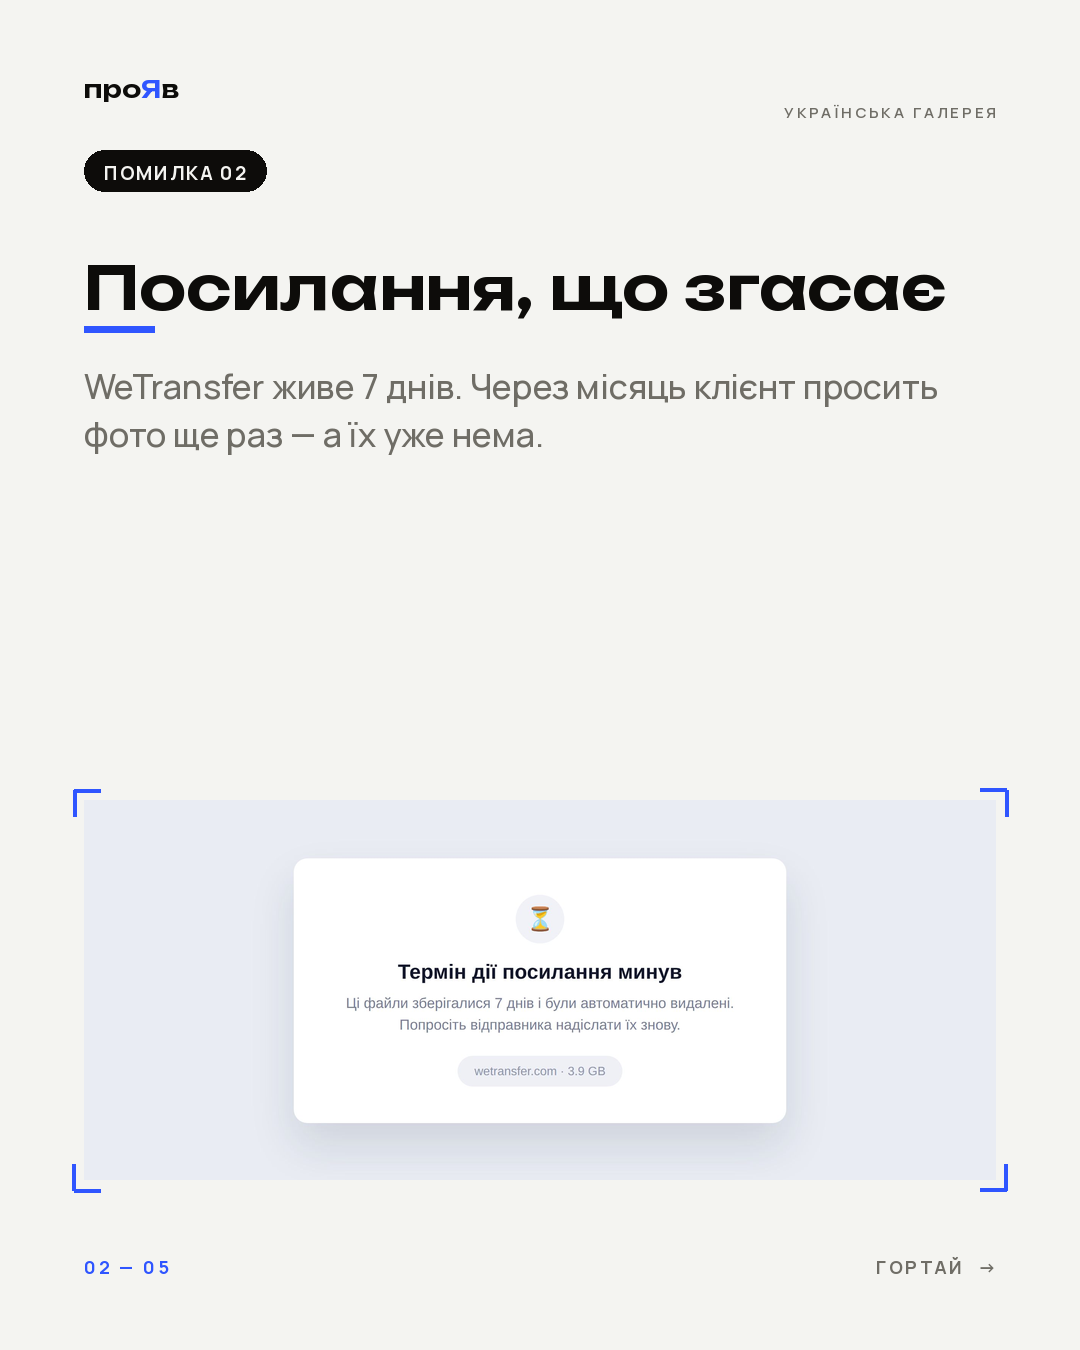
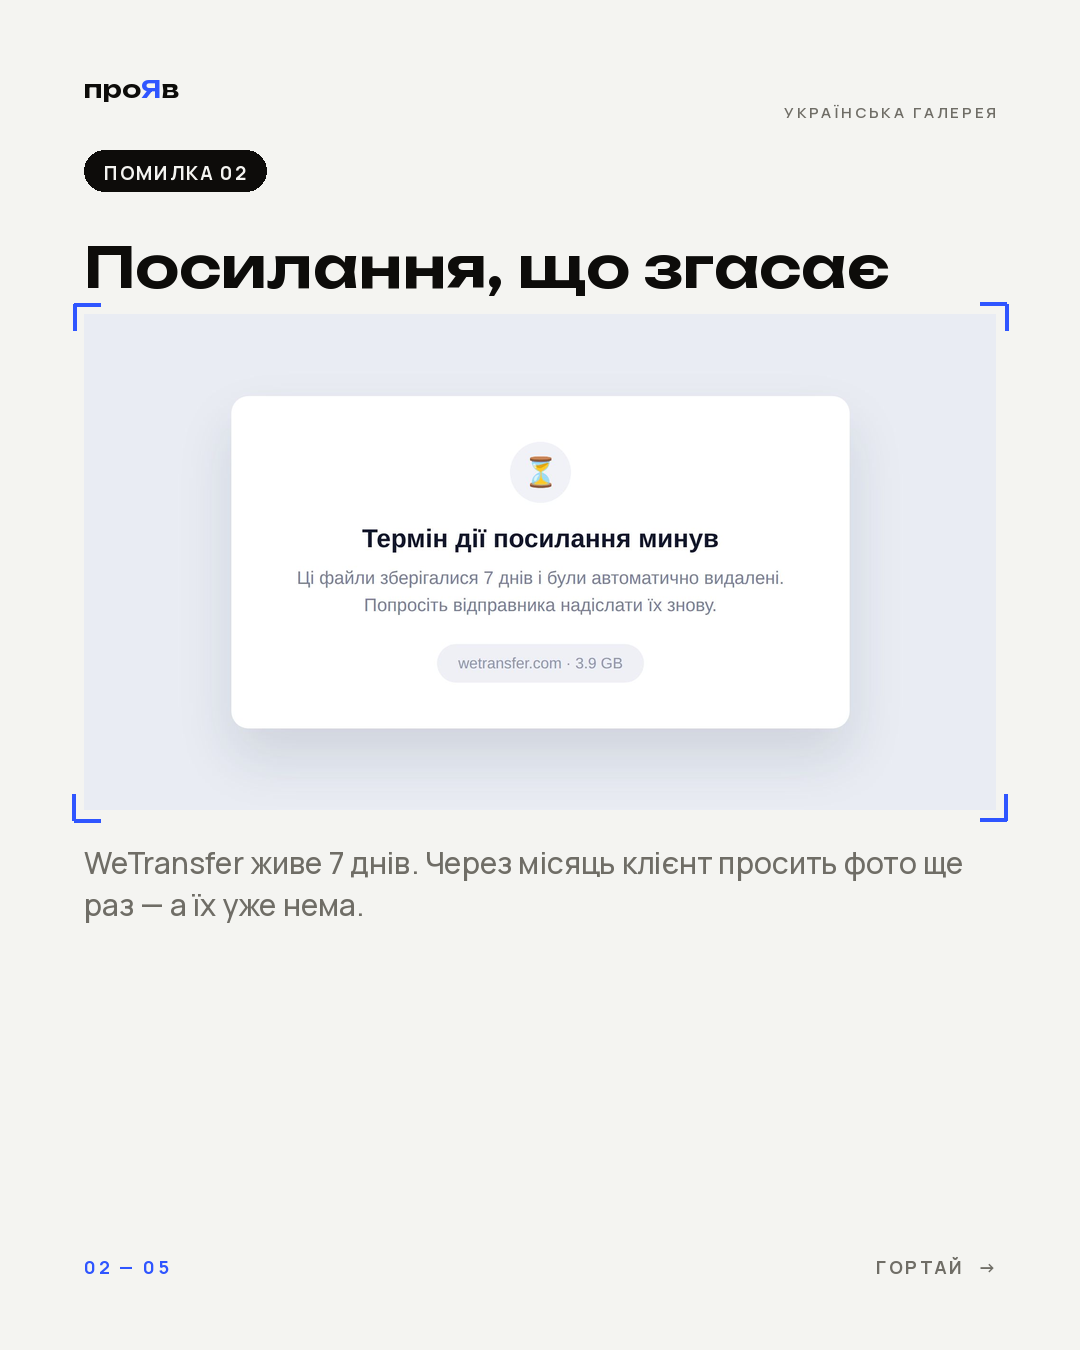
feat: template library for varied slide layouts
Adds a template system (render.TEMPLATES): photo, paper, quote, uicard, bigword.
Slides can be dicts with a "tpl" field so each carousel composes different
layouts (statement / full-bleed / centred UI card / paper band / big quote),
instead of every slide looking the same. build.py resolves dict-slide photos.

Claude-Session: https://claude.ai/code/session_015wyBXFLFDaqriyMyWQgP9j

diff --git a/render.py b/render.py
@@ -335,6 +335,85 @@ def cta(car, out_path, photo=None):
     img.save(out_path, "PNG"); return out_path
 
 
+# --- extra templates (library for varied layouts) --------------------------
+def slide_quote(idx, total, head, text, out_path, kick, photo=None, seed=1, mono=False):
+    """Coal slide, oversized quote in «» — a scroll-stopping statement."""
+    img = Image.new("RGB", (W, H), COAL); d = ImageDraw.Draw(img)
+    maxw = W - MARGIN * 2
+    _pill(d, MARGIN, 150, f"{kick} {idx:02d}" if kick else f"{idx:02d} / {total:02d}",
+          body(19, 700), ACC, WHITE)
+    f, lines = _fit_tokens(d, _tokens("«" + head + "»"), maxw, start=98, min_size=50, max_lines=4)
+    lh = int(f.size * 1.05)
+    y = (H - len(lines) * lh) // 2 - 40
+    y = _draw_tokens(d, MARGIN, y, lines, f, WHITE, ACC_D, lh)
+    if text:
+        y += 26
+        for l in wrap(d, text, body(30, 500), maxw - 140):
+            d.text((MARGIN, y), l, font=body(30, 500), fill=MUT_D); y += 42
+    _meta(d, "", f"{idx:02d} — {total:02d}", C.SWIPE_CUE, dark=True)
+    os.makedirs(os.path.dirname(out_path), exist_ok=True)
+    img.save(out_path, "PNG"); return out_path
+
+
+def slide_uicard(idx, total, head, text, out_path, kick, photo=None, seed=1, mono=False):
+    """Paper slide with a headline, a centred framed image (screenshot/graphic),
+    and a caption — perfect for UI shots that must match the text."""
+    img = Image.new("RGB", (W, H), PAPER); d = ImageDraw.Draw(img)
+    maxw = W - MARGIN * 2
+    _pill(d, MARGIN, 150, f"{kick} {idx:02d}" if kick else f"{idx:02d} / {total:02d}",
+          body(19, 700), INK, PAPER)
+    hf, hlines = _fit_tokens(d, _tokens(head), maxw, start=56, min_size=38, max_lines=2)
+    y = 232; hlh = int(hf.size * 1.08)
+    y = _draw_tokens(d, MARGIN, y, hlines, hf, INK, ACC, hlh)
+    y += 22
+    pw, ph = maxw, 496
+    img.paste(_photo(photo, pw, ph, seed, mono), (MARGIN, y))
+    _frame(d, (MARGIN - 10, y - 10, MARGIN + pw + 10, y + ph + 10))
+    y2 = y + ph + 32
+    if text:
+        for l in wrap(d, text, body(30, 500), maxw):
+            d.text((MARGIN, y2), l, font=body(30, 500), fill=MUT_L); y2 += 42
+    _meta(d, "", f"{idx:02d} — {total:02d}", C.SWIPE_CUE, dark=False)
+    os.makedirs(os.path.dirname(out_path), exist_ok=True)
+    img.save(out_path, "PNG"); return out_path
+
+
+def slide_bigword(idx, total, head, text, out_path, kick, photo=None, seed=1, mono=False):
+    """One giant word bleeding off the edge + a small caption (volume-one move)."""
+    dark = (seed % 2 == 0)
+    img = Image.new("RGB", (W, H), COAL if dark else PAPER); d = ImageDraw.Draw(img)
+    ink = WHITE if dark else INK
+    maxw = W - MARGIN * 2
+    word = (head.split()[0] if head else "").upper()
+    f0 = disp(100, 700); w0 = d.textlength(word, font=f0) or 1
+    size = min(430, max(150, int(100 * (1.16 * W) / w0)))
+    d.text((MARGIN - int(size * 0.04), int(H * 0.33)), word, font=disp(size, 700), fill=ink)
+    _pill(d, MARGIN, 150, f"{kick} {idx:02d}" if kick else f"{idx:02d} / {total:02d}",
+          body(19, 700), ACC if dark else INK, WHITE if dark else PAPER)
+    y = H - 250 - 0
+    cap = text or head
+    for l in wrap(d, cap, body(33, 500), maxw - 40):
+        d.text((MARGIN, y), l, font=body(33, 500), fill=(SOFT if dark else MUT_L)); y += 46
+    _meta(d, "", f"{idx:02d} — {total:02d}", C.SWIPE_CUE, dark=dark)
+    os.makedirs(os.path.dirname(out_path), exist_ok=True)
+    img.save(out_path, "PNG"); return out_path
+
+
+TEMPLATES = {
+    "photo": slide_photo,     # full-bleed image + overlaid headline
+    "paper": slide_paper,     # airy cream slide + image band
+    "quote": slide_quote,     # oversized «quote» on coal
+    "uicard": slide_uicard,   # centred screenshot/graphic + caption
+    "bigword": slide_bigword, # giant word bleeding off the edge
+}
+
+
+def _slide_fields(item):
+    if isinstance(item, dict):
+        return item.get("head", ""), item.get("body", ""), item.get("tpl")
+    return item[0], item[1], None
+
+
 def carousel(car, out_dir, photos=None, cta_photo=None):
     os.makedirs(out_dir, exist_ok=True)
     photos = photos or []
@@ -345,13 +424,11 @@ def carousel(car, out_dir, photos=None, cta_photo=None):
     cover(car, p, photo=photos[0] if photos else None, mono=mono); paths.append(p)
     total = len(car["slides"])
     for i, item in enumerate(car["slides"], 1):
-        head, text = item[0], item[1]
+        head, text, tpl = _slide_fields(item)
         ph = photos[i] if len(photos) > i else None
         p = os.path.join(out_dir, f"{i:02d}_slide.png")
-        if i % 2 == 1:
-            slide_photo(i, total, head, text, p, kick, photo=ph, seed=i, mono=mono)
-        else:
-            slide_paper(i, total, head, text, p, kick, photo=ph, seed=i, mono=mono)
+        fn = TEMPLATES.get(tpl) or (slide_photo if i % 2 == 1 else slide_paper)
+        fn(i, total, head, text, p, kick, photo=ph, seed=i, mono=mono)
         paths.append(p)
     p = os.path.join(out_dir, "99_cta.png")
     cta(car, p, photo=cta_photo); paths.append(p)

diff --git a/config.py b/config.py
@@ -57,23 +57,24 @@ CAROUSELS = [
         # cover/cta images (drop these files in input/photos/)
         "cover_photo": "gallery-hero.jpg",
         "cta_photo": "gallery-beautiful.jpg",
-        # each slide: (headline, body, image-that-matches-the-text)
+        # each slide: head + body + image-that-matches-the-text + template.
+        # tpl picks a layout from render.TEMPLATES so slides differ visually.
         "slides": [
-            ("Архів .zip на 4 ГБ",
-             "Клієнт качає його пів години, а половина не відкриває zip з телефона. Перше враження — зіпсоване.",
-             "screenshot-zip-download.jpg"),
-            ("Посилання, що згасає",
-             "WeTransfer живе 7 днів. Через місяць клієнт просить фото ще раз — а їх уже нема.",
-             "screenshot-wetransfer.jpg"),
-            ("Купа файлів без ладу",
-             "IMG_0421.jpg нічого не каже. Клієнт губиться і не розуміє, що з цим робити далі.",
-             "screenshot-messy-files.jpg"),
-            ("Жодного «вау»",
-             "Папка з файлами не викликає емоцій. А саме емоція змушує клієнта показати зйомку друзям.",
-             "screenshot-drive-folder.jpg"),
-            ("Немає шляху до наступного замовлення",
-             "Після передачі зв'язок обривається. Гарна галерея — це місце, де живе твій бренд і наступний продаж.",
-             "photo-photographer.jpg"),
+            {"head": "Архів .zip на 4 ГБ", "tpl": "photo",
+             "photo": "screenshot-zip-download.jpg",
+             "body": "Клієнт качає його пів години, а половина не відкриває zip з телефона. Перше враження — зіпсоване."},
+            {"head": "Посилання, що згасає", "tpl": "uicard",
+             "photo": "screenshot-wetransfer.jpg",
+             "body": "WeTransfer живе 7 днів. Через місяць клієнт просить фото ще раз — а їх уже нема."},
+            {"head": "Купа файлів без ладу", "tpl": "photo",
+             "photo": "screenshot-messy-files.jpg",
+             "body": "IMG_0421.jpg нічого не каже. Клієнт губиться і не розуміє, що з цим робити далі."},
+            {"head": "Жодного «вау»", "tpl": "paper",
+             "photo": "screenshot-drive-folder.jpg",
+             "body": "Папка з файлами не викликає емоцій. А саме емоція змушує клієнта показати зйомку друзям."},
+            {"head": "Немає шляху до наступного замовлення", "tpl": "quote",
+             "photo": "photo-photographer.jpg",
+             "body": "Після передачі зв'язок обривається. Гарна галерея — місце, де живе твій бренд і наступний продаж."},
         ],
         "cta": "Віддай зйомку так,\nщоб клієнт сказав вау",
         "cta_sub": "Українська галерея для фотографів — спробуй безкоштовно",

diff --git a/build.py b/build.py
@@ -47,7 +47,10 @@ def build_carousels():
         # cover_photo / cta_photo); pool is only a fallback.
         photos = [_resolve(car.get("cover_photo"), pool, cur)]; cur += 1
         for item in car["slides"]:
-            nm = item[2] if len(item) > 2 else None
+            if isinstance(item, dict):
+                nm = item.get("photo")
+            else:
+                nm = item[2] if len(item) > 2 else None
             photos.append(_resolve(nm, pool, cur)); cur += 1
         cta_photo = _resolve(car.get("cta_photo"), pool, cur); cur += 1
         paths = R.carousel(car, out_dir, photos=photos, cta_photo=cta_photo)
